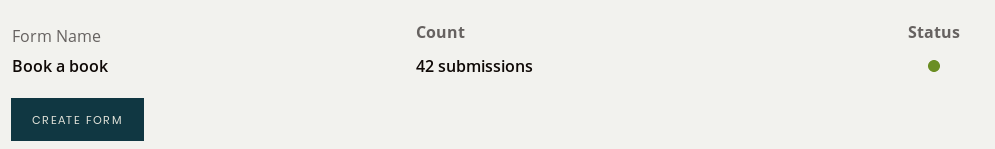
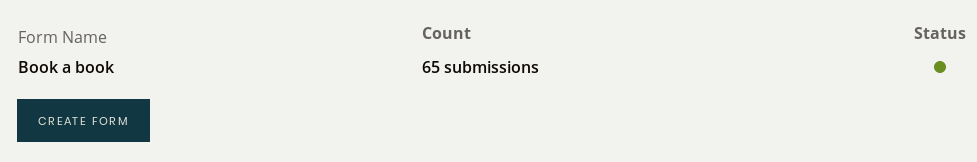
M5 final changes

diff --git a/index.html b/index.html
@@ -380,20 +380,20 @@
 							
 							<h3>1. Collected contact information from potential users </h3>
 								<h4>Formspree</h4>
-								We have 64 submissions until now. 
+								We have 65 submissions until now. 
 								<img src="images/m5/formspree.png" width="95%" >
 								<img src="images/m5/formspree-contact.png" width="95%" >
 
 							<h3>2. Number of visitors on the landing page </h3>
 							
 								<h4>2.1 User recordings</h4>
-									<p>Formspree: 64 submissions<br>
-										Google analytics: 156 users<br>
-										Hotjar: 161 page views, 131 recordigs
+									<p>Formspree: 65 submissions<br>
+										Google analytics: 230 users and 313 pageviews<br>
+										Hotjar: 247 page views, 205 recordigs
 									</p>						
 									
-									<p>	Looking at hotjar, we have 131 recordings and at the referrer URL we can see that most of our users came from Facebook referer. But this information is not very useful, because Facebook was our main channel of communication.
-									<br> According to hotjar, the duration of people who stay on our page was from 0:01 to 32:29 (minuts:seconds), and the average is 0.26 seconds (google analytics).
+									<p>	Looking at hotjar, we have 205 recordings and at the referrer URL we can see that most of our users came from Facebook referer. But this information is not very useful, because Facebook was our main channel of communication.
+									<br> According to Google analytics, the average time of people who stay on our page is 0.27 seconds.
 									</p>
 
 								<h4>2.2 Analyzing the traffic with Google analytics</h4>
@@ -408,10 +408,13 @@
 									<p>Taking a look at the device categories, we can see that our users used both phones and computer devices, so this can tell us that BookaBook should be available for them both in order to attract users.</p>
 									<img src="images/m5/googleAnalytics-operatingSystem.png" width="95%" >
 									
-									<p>Information from google analytics about user demographics and interests: 
-										<br>As we predicted in our last survay, our users are the ones who browse the internet - age 18-54 years old, or more; but our most active users are between 18-34 years old.
-										<br>Taking into consideration the interest categories of the people who visited our site, we can use the information to learn some of the topics for our first books acquisition.</p>
+									<p>Looking at the next picture, we can see that even though most of them are new, some of our users have returned in this period of time (including us :) ).</p>
+									<img src="images/m5/googleAnalytics-returningUsers.png" width="95%" >
 									
+									<p>Information from google analytics about user demographics and interests: 
+											<br>As we predicted in our last survay, our users are the ones who browse the internet - age 18-54 years old, or more; but our most active users are between 18-34 years old.
+											<br>Taking into consideration the interest categories of the people who visited our site, we can use the information to learn some of the topics for our first books acquisition.</p>
+										
 								<h4>2.3 Analyzing the traffic from Hotjar</h4>	
 									<p>	Using Hotjar we managed to analyze the heatmaps for clicks, scroll or movement and see how users interact with the landing page.<br>
 									Our potential users were interested in solution, the steps & contact section and the 'leave your contact' area.<br>
@@ -468,7 +471,10 @@
 									<a href="images/m5/sabina5.jpg">- post </a>
 							<p></p>
 							<h3>3. Conclusions</h3>	
-								We started to promote our landing page since 10th November 2019 on different social media platforms and succeeded to attract over 200 people from Romania and abroad. Facebook was our main source of advertising though posts and our Facebook page (in its first day, over 90 liked were collected).
+								We started to promote our landing page since 10th November 2019 on different social media platforms and succeeded to attract over 200 people from Romania and abroad.
+								Facebook was our main source of advertising though posts and our Facebook page (in its first day - 23 November, over 110 liked were collected).
+								<img src="images/m5/facebook.png" width="95%" >
+
 								<br>
 								Looking at Hotjar we came to the conclusion that only landing page 48.8% scrolled all the length of the page on mobile and 58.5% on laptops/ computers. This can tell us that we should arrange the site differently so everyone can see the main information like the contact right from the beginning.
 								<br>
